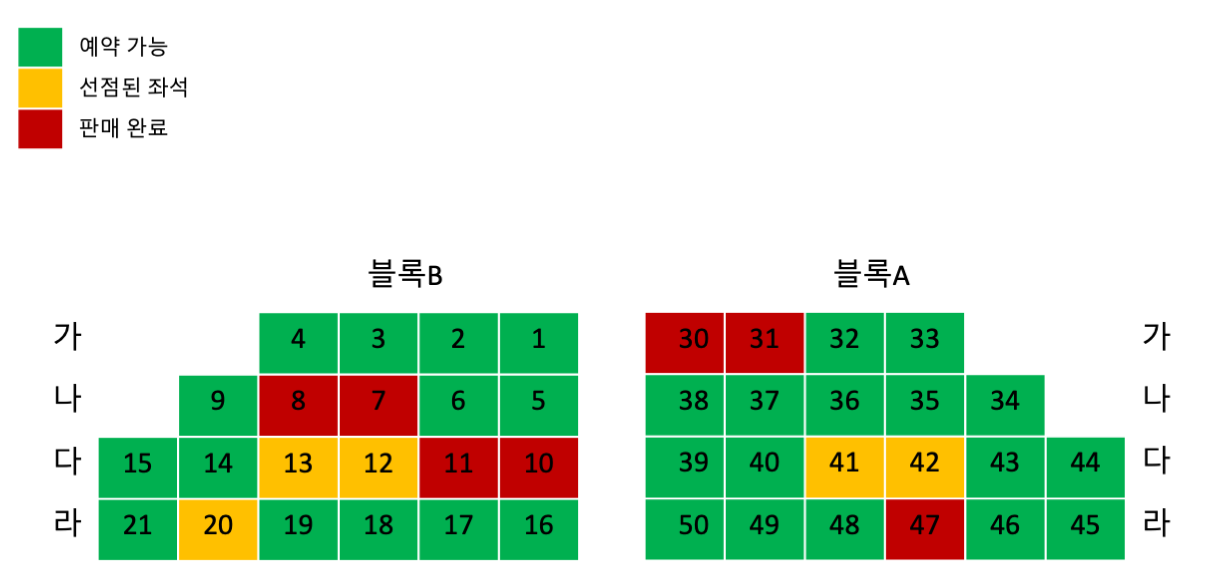
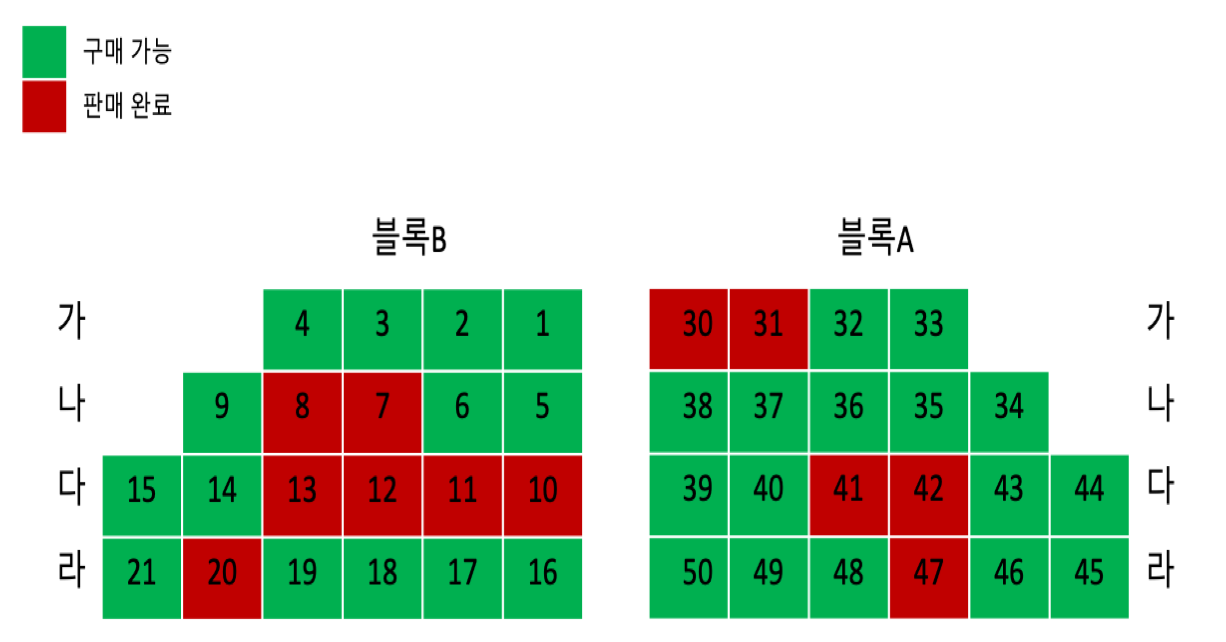
.

diff --git a/performance/README.md b/performance/README.md
@@ -2,7 +2,7 @@
 
 이 프로젝트의 목표는 서버에서 대용량 트래픽을 효율적으로 처리하는 과정을 보여주는 것이다.
 이를 위한 예제로 '티켓 구매 시스템'을 개발하면서 점진적으로 성능을 개선해 나간다.
-최종 목표는 'scale out'으로 아래의 성능 요구사항을 충족하는 것이다.
+최종 목표는 'scale out'으로 아래의 요구사항을 충족하는 것이다.
 
 > -   5만개의 좌석이 존재하는 공연.
 > -   좌석도 시스템 사용자 50만 명.
@@ -23,11 +23,7 @@
 
 > -   좌석도는 '블록' > '열' > '좌석'으로 구성된다.
 > -   좌석번호는 각 열에서 고유하며 순서는 불규칙하다.
-> -   노락색으로 표시된 '선점된 좌석'은 사용자가 구매를 위해서 선택한 좌석이다.
-> -   빨간색으로 표시된 좌석은 판매 완료된 좌석이다.
-
-이 프로젝트의 목표가 성능임에도 불구하고 도메인을 비교적 복잡한 수준으로 정의했다.<br>
-이것은 이러한 정의가 향후 개발하게 될 캐쉬 알고리즘과 연관이 있기 때문에 지나치게 단순화 하지 않은 것이다.
+> -   좌석은 판매완료/구매가능 상태가 있다.
 
 아래 좌석도에서 블록 _'A/B'_ 와 열 _'가/나/다/라'_ 를 볼 수 있다.
 
